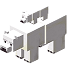
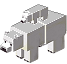
add desert decorations

diff --git a/roadCarnage/src/gameObjects/levelGenerators/LevelDecorations.java b/roadCarnage/src/gameObjects/levelGenerators/LevelDecorations.java
@@ -95,35 +95,48 @@ System.out.println(map);
 
                 }
             case "Desert":
-                 rand = Constants.random.nextInt(11);
+                 rand = Constants.random.nextInt(15);
                 switch (rand) {
+                    case 0:
+                        return new Decoration(1f, x, y, Decorations.CACTUS1);
+                    case 1:
+                        return new Decoration(1f, x, y, Decorations.CACTUS2);
+                    case 3:
+                        return new Decoration(1f, x, y, Decorations.CACTUS4);
+                    case 4:
+                        return new Decoration(1f, x, y, Decorations.CACTUS5);
+                    case 5:
+                        return new Decoration(1f, x, y, Decorations.CACTUS6);
+                    case 6:
+                        return new Decoration(1f, x, y, Decorations.PALM);
+                    case 7:
+                        return new Decoration(1f, x, y, Decorations.GOLEM);
+                    default :
+                        return new Decoration(1f, x, y, Decorations.CACTUS3);
+
 
                 }
             case "Arctic":
-                 rand = Constants.random.nextInt(10);
+                 rand = Constants.random.nextInt(15);
                 switch (rand) {
                     case 0:
-                        return new Decoration(1f, x+20, y, Decorations.POLAR_BEAR);
-                    case 1:
-                        return new Decoration(1f, x+20, y, Decorations.POLAR_BEAR1);
-                    case 2:
-                        return new Decoration(1f, x+20, y, Decorations.WOLF);
+                        return new Decoration(1f, x+20, y-50, Decorations.POLAR_BEAR);
                     case 3:
-                        return new Decoration(1f, x+20, y, Decorations.POLAR_BEAR2);
+                        return new Decoration(1f, x+20, y-50, Decorations.POLAR_BEAR2);
                     case 4:
-                        return new Decoration(1f, x+20, y, Decorations.POCKEMON1);
-                    case 5:
-                        return new Decoration(1f, x+20, y, Decorations.WOLF1);
+                        return new Decoration(1f, x+20, y-50, Decorations.POCKEMON1);
                     case 6:
-                        return new Decoration(1f, x+20, y, Decorations.PENGUIN);
+                        return new Decoration(1f, x+20, y-50, Decorations.ROCK);
                     case 7:
-                        return new Decoration(1f, x+20, y, Decorations.ICEPOOL);
+                        return new Decoration(1f, x+20, y-50, Decorations.ICEPOOL);
                     case 8:
-                        return new Decoration(1f, x+20, y, Decorations.PENGUIN1);
+                        return new Decoration(1f, x+20, y-50, Decorations.PENGUIN1);
                     case 9:
-                        return new Decoration(1f, x+20, y, Decorations.POCKEMON);
-
+                        return new Decoration(1f, x+20, y-50, Decorations.POCKEMON);
+                    default:
+                        return new Decoration(1f, x+20, y-50, Decorations.PENGUIN);
                 }
+
             case "City":
                 rand = Constants.random.nextInt(11);
                 switch (rand) {

diff --git a/roadCarnage/src/gameObjects/stuff/Decorations.java b/roadCarnage/src/gameObjects/stuff/Decorations.java
@@ -15,19 +15,25 @@ public enum Decorations {
     TREE5("\\res\\decorations\\tree5.png", 1f),
     TREE6("\\res\\decorations\\tree6.png", 1f),
     TREE7("\\res\\decorations\\tree7.png", 1f),
+    TREE8("\\res\\decorations\\tree8.png", 1f),
     COW("\\res\\decorations\\Cow.png", 0.1f),
     COW1("\\res\\decorations\\cow1.png", 0.1f),
     POLAR_BEAR("\\res\\decorations\\Polar_Bear.png", 0.1f),
-    POLAR_BEAR1("\\res\\decorations\\polarbearWithTeddy.png", 0.1f),
     POLAR_BEAR2("\\res\\decorations\\polarbearWithTeddy1.png", 0.1f),
-    WOLF("\\res\\decorations\\wolf.png", 0.1f),
-    WOLF1("\\res\\decorations\\wolf1.png", 0.1f),
     ICEPOOL("\\res\\decorations\\ice_pool.png", 0.1f),
     PENGUIN("\\res\\decorations\\Penguin.png", 0.1f),
     PENGUIN1("\\res\\decorations\\Penguin1.png", 0.1f),
     POCKEMON("\\res\\decorations\\pockemon.png", 0.1f),
     POCKEMON1("\\res\\decorations\\pockemon1.png", 0.1f),
-    TREE8("\\res\\decorations\\tree8.png", 1f);
+    ROCK("\\res\\decorations\\rock.png", 0.1f),
+    CACTUS1("\\res\\decorations\\cactus1.png", 1f),
+    CACTUS2("\\res\\decorations\\cactus2.png", 1f),
+    CACTUS3("\\res\\decorations\\cactus3.png", 1f),
+    CACTUS4("\\res\\decorations\\cactus4.png", 1f),
+    CACTUS5("\\res\\decorations\\cactus5.png", 1f),
+    CACTUS6("\\res\\decorations\\cactus6.png", 1f),
+    GOLEM("\\res\\decorations\\golem.png", 1f),
+    PALM("\\res\\decorations\\palm.png", 1f);
     private Image image;
     private float scale;
 

diff --git a/roadCarnage/src/gameObjects/Road.java b/roadCarnage/src/gameObjects/Road.java
@@ -16,7 +16,7 @@ public class Road extends GameObject {
     public static final float Y = 0;
     public static final float HEIGHT = 700;
 
-    public static final String PATH = "res\\roadSkins\\backSide" + ".png";
+    public static final String PATH = "res\\roadSkins\\desert" + ".png";
 
     public static final float ROUGH_ROAD_WIDTH = 56;
     public static final float BLACK_LINE_WIDTH = 13;
